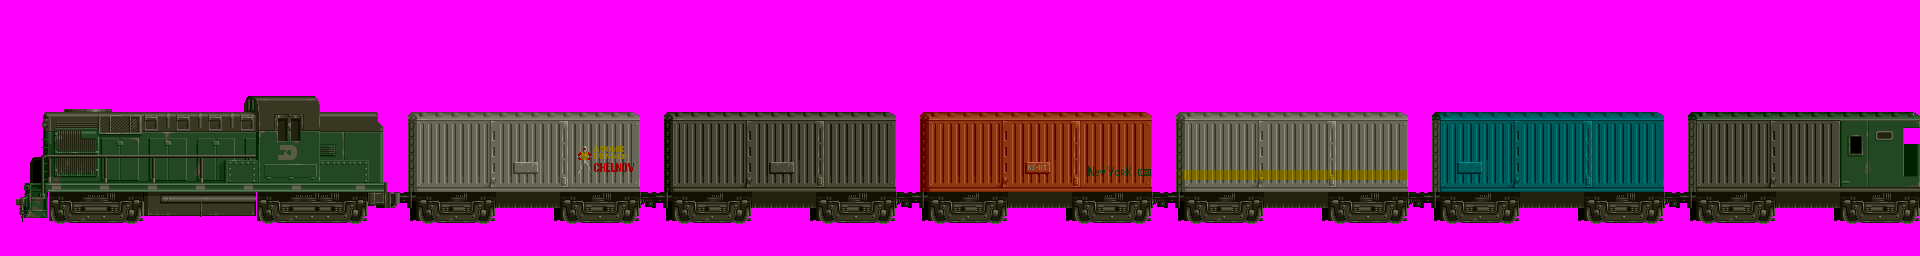
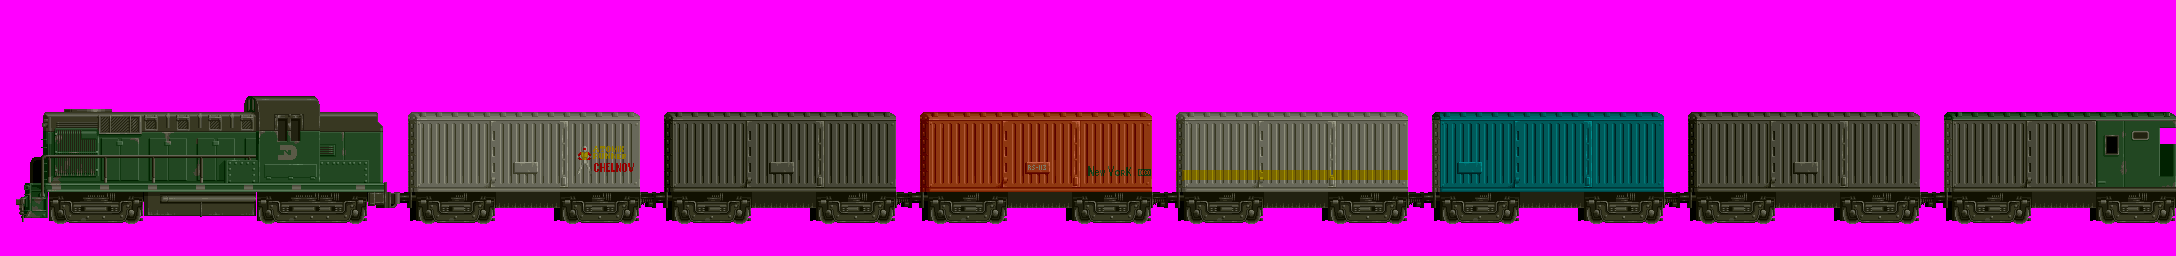
better train level

Changed region(s): [[0.0, 0.375, 1.0, 0.875], [0.0312, 0.4062, 0.0625, 0.4375]]

diff --git a/assets/amiga/convert_graphics.py b/assets/amiga/convert_graphics.py
@@ -454,7 +454,7 @@ sprite_sheet_dict = {i:sheets_path / "sprites" / f"pal_{i:02x}.png" for i in ran
 ending_tile_24a000_sheet_dict = {i:sheets_path / "tiles_24a000" / "ending" / f"pal_{i:02x}.png" for i in range(0,10)}
 ending_tile_24d000_sheet_dict = {i:sheets_path / "tiles_24d000" / "ending" / f"pal_{i:02x}.png" for i in range(0,6)}
 
-def load_contexted_tileset(tile_sheet_dict,context,nb_colors,is_bob,postload_callback=None):
+def load_contexted_tileset(tile_sheet_dict,context,nb_colors,is_bob,postload_callback=None,forced_palette=set()):
     tile_palette = set()
     tile_24a000_set_list = []
 
@@ -464,7 +464,8 @@ def load_contexted_tileset(tile_sheet_dict,context,nb_colors,is_bob,postload_cal
     for i in range(16):
         tsd = tile_sheet_dict.get(i)
         if tsd:
-            tp,tile_set = load_tileset(tsd,i,16,context_dir,cluts=used_cluts_dict[context],is_bob=is_bob,postload_callback=postload_callback)
+            tp,tile_set = load_tileset(tsd,i,16,context_dir,cluts=used_cluts_dict[context],is_bob=is_bob,
+            postload_callback=postload_callback)
             tile_24a000_set_list.append(tile_set)
             tile_palette.update(tp)
         else:
@@ -472,6 +473,8 @@ def load_contexted_tileset(tile_sheet_dict,context,nb_colors,is_bob,postload_cal
 
     if (0,0,0) not in tile_palette:
         tile_palette.add((0,0,0))
+
+    tile_palette.update(forced_palette)
 
     # convert to rgb4
     # subtract the colors contained in "reuse_colors"
@@ -716,10 +719,11 @@ def dump_tiles(file_radix,palette,tile_table,tile_plane_cache,add_dimension_info
     asm2bin(tiles_1_src,tiles_1_bin)
 
 def process_tile_context(context_name,tile_sheet_dict,nb_colors,is_bob=False,shift_palette_count=0,first_pass=False,
-                            first_colors=None,postload_callback=None):
+                            first_colors=None,postload_callback=None,forced_palette=set()):
 
 
-    tile_24a000_set_list,bg_palette,nb_used_colors = load_contexted_tileset(tile_sheet_dict,context_name,nb_colors,is_bob,postload_callback=postload_callback)
+    tile_24a000_set_list,bg_palette,nb_used_colors = load_contexted_tileset(tile_sheet_dict,context_name,nb_colors,is_bob,
+    postload_callback=postload_callback,forced_palette=forced_palette)
     tile_24a000_cache = {}
 
     if shift_palette_count:
@@ -895,10 +899,17 @@ if generate_for_levels[4]:
     process_tile_context("game_level_4",sprite_sheet_dict,nb_bob_colors,is_bob=True,shift_palette_count=nb_tile_colors)
 if generate_for_levels[5]:
     truck_nb_planes = 4
-    process_tile_context("level_5_24a000",level_5_tile_24a000_sheet_dict,16,first_pass=True)
+    # add actual train colors for more vivid train colors as we can't really rely on the background to provide approx colors
+    # (unlike in levels 1 and 2).
+    forced_palette = {(142,0,0),(176,90,56),(159,142,0),(142,56,17),(123,104,0)}
+    process_tile_context("level_5_24a000",level_5_tile_24a000_sheet_dict,32,first_pass=True,forced_palette=forced_palette)
+
+    # get hold of the really used number of colors (without padding)
+    nb_tile_colors,nb_bob_colors = balance_tile_bob_colors("level_5_24a000")
+
     train_used_colors = convert_truck_pics.doit_train(palette_dict["level_5_24a000"]["palette"],truck_nb_planes)
-    process_tile_context("level_5_24a000",level_5_tile_24a000_sheet_dict,16,first_pass=False,first_colors=train_used_colors)
-    process_tile_context("game_level_5",sprite_sheet_dict,48,is_bob=True,shift_palette_count=16)
+    process_tile_context("level_5_24a000",level_5_tile_24a000_sheet_dict,32,first_pass=False,first_colors=train_used_colors,forced_palette=forced_palette)
+    process_tile_context("game_level_5",sprite_sheet_dict,nb_bob_colors,is_bob=True,shift_palette_count=nb_tile_colors)
 
 if generate_for_levels[6]:
     process_tile_context("level_6_24a000",level_6_tile_24a000_sheet_dict,16,first_pass=False)

diff --git a/assets/amiga/convert_truck_pics.py b/assets/amiga/convert_truck_pics.py
@@ -108,7 +108,7 @@ def doit_truck_2(global_palette,nb_planes):
 
 def doit_train(global_palette,nb_planes):
     return doit(global_palette,name="train",level_1_bar=False,forced_nb_planes=nb_planes,
-    y_start=96+16,height=64+48,exhaust_height=0,width=1920,wheels_height=16,
+    y_start=96+16,height=64+48,exhaust_height=0,width=1920+256,wheels_height=16,
     y_pos = 96+16)
 
 if __name__ == "__main__":
